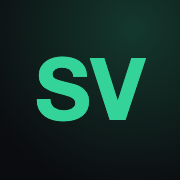
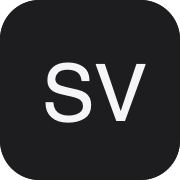
Use an Apple-style palette: neutral greys and one blue accent
The green, violet, sky, amber and rose domain hues are retired. Links,
buttons and the focus ring use #0066cc on light and #2997ff on dark;
primary buttons are #0071e3 with white text. Numbers, eyebrows, metric
lines and bullets move to the ink and grey neutrals. The data-hue
attributes stay in the markup but all resolve to the same blue.

In-review PRs get a neutral pill and merged ones the blue. RAG results
that got worse use the system red, and code highlighting drops violet.
The favicon, apple-touch icon and social card are redrawn to match; the
card also carries the current headline.

diff --git a/styles.css b/styles.css
@@ -4,8 +4,9 @@
    Theme: light and dark. Follows the system setting; the nav toggle
    pins a choice in localStorage as <html data-theme>. Light uses white
    and #f5f5f7 canvases; dark uses black and #1c1c1e. The measured
-   numbers always sit on a dark band. One accent per page (the domain
-   hue on <body data-hue>), deep on light, bright on dark.
+   numbers always sit on a dark band. Colour is Apple's: neutral greys
+   and one blue accent, #0066cc on light and #2997ff on dark. The
+   data-hue attributes in the markup now all resolve to that blue.
 
    Type: Geist, large display sizes with tight tracking, 17px body.
    Radius: tiles 28px, small surfaces 18px, pills 999px, code 6px.
@@ -42,19 +43,24 @@
   --muted: #6e6e73;
   --muted-rgb: 110, 110, 115;
 
-  /* domain hues: deep for light canvases (AA on #fff and #f5f5f7),
-     bright for the black bands. --accent is re-pointed per scope. */
-  --hue-agent: #047857;    --hue-agent-rgb: 4, 120, 87;
-  --hue-vision: #0369a1;   --hue-vision-rgb: 3, 105, 161;
-  --hue-llm: #6d28d9;      --hue-llm-rgb: 109, 40, 217;
-  --hue-product: #b45309;  --hue-product-rgb: 180, 83, 9;
-  --hue-tools: #be123c;    --hue-tools-rgb: 190, 18, 60;
+  /* one accent. The per-domain hue tokens are kept so [data-hue]
+     markup keeps working, but every one of them is the same blue. */
+  --blue: #0066cc;       --blue-rgb: 0, 102, 204;
+  --blue-d: #2997ff;     --blue-d-rgb: 41, 151, 255;
+  --btn: #0071e3;
+  --red: #d70015;        --red-d: #ff453a;
 
-  --hue-agent-d: #34d399;   --hue-agent-d-rgb: 52, 211, 153;
-  --hue-vision-d: #38bdf8;  --hue-vision-d-rgb: 56, 189, 248;
-  --hue-llm-d: #a78bfa;     --hue-llm-d-rgb: 167, 139, 250;
-  --hue-product-d: #fbbf24; --hue-product-d-rgb: 251, 191, 36;
-  --hue-tools-d: #fb7185;   --hue-tools-d-rgb: 251, 113, 133;
+  --hue-agent: var(--blue);    --hue-agent-rgb: var(--blue-rgb);
+  --hue-vision: var(--blue);   --hue-vision-rgb: var(--blue-rgb);
+  --hue-llm: var(--blue);      --hue-llm-rgb: var(--blue-rgb);
+  --hue-product: var(--blue);  --hue-product-rgb: var(--blue-rgb);
+  --hue-tools: var(--blue);    --hue-tools-rgb: var(--blue-rgb);
+
+  --hue-agent-d: var(--blue-d);   --hue-agent-d-rgb: var(--blue-d-rgb);
+  --hue-vision-d: var(--blue-d);  --hue-vision-d-rgb: var(--blue-d-rgb);
+  --hue-llm-d: var(--blue-d);     --hue-llm-d-rgb: var(--blue-d-rgb);
+  --hue-product-d: var(--blue-d); --hue-product-d-rgb: var(--blue-d-rgb);
+  --hue-tools-d: var(--blue-d);   --hue-tools-d-rgb: var(--blue-d-rgb);
 
   --accent: var(--hue-agent);
   --accent-rgb: var(--hue-agent-rgb);
@@ -99,7 +105,7 @@
   --hue-llm: var(--hue-llm-d);         --hue-llm-rgb: var(--hue-llm-d-rgb);
   --hue-product: var(--hue-product-d); --hue-product-rgb: var(--hue-product-d-rgb);
   --hue-tools: var(--hue-tools-d);     --hue-tools-rgb: var(--hue-tools-d-rgb);
-  --accent-ink: #000000;
+  --red: var(--red-d);
 }
 @media (prefers-color-scheme: dark) {
   :root:not([data-theme="light"]) {
@@ -120,7 +126,7 @@
     --hue-llm: var(--hue-llm-d);         --hue-llm-rgb: var(--hue-llm-d-rgb);
     --hue-product: var(--hue-product-d); --hue-product-rgb: var(--hue-product-d-rgb);
     --hue-tools: var(--hue-tools-d);     --hue-tools-rgb: var(--hue-tools-d-rgb);
-    --accent-ink: #000000;
+    --red: var(--red-d);
   }
 }
 
@@ -365,7 +371,7 @@ h2 {
 .case-context {
   margin-bottom: 1rem;
   order: -1;
-  color: var(--accent);
+  color: var(--muted);
   font-size: 1rem;
   font-weight: 600;
   letter-spacing: -0.01em;
@@ -394,8 +400,8 @@ h2 {
 .btn:active { transform: scale(0.97); }
 
 .btn-primary {
-  background: var(--accent);
-  color: var(--accent-ink);
+  background: var(--btn);
+  color: #ffffff;
 }
 
 .btn-ghost {
@@ -533,7 +539,7 @@ a.card::after {
 }
 
 .card .metric {
-  color: var(--accent);
+  color: var(--text);
   font-size: 0.95rem;
   font-weight: 600;
   letter-spacing: -0.01em;
@@ -561,7 +567,7 @@ a.card::after {
   position: absolute;
   top: 2rem;
   right: 2rem;
-  color: var(--accent);
+  color: var(--muted);
   transition: transform 250ms var(--ease);
 }
 
@@ -586,7 +592,7 @@ a.card::after {
 .card-context,
 .card p.card-context {
   margin-top: 0.6rem;
-  color: var(--accent);
+  color: var(--text);
   font-size: 1rem;
   font-weight: 600;
   letter-spacing: -0.01em;
@@ -621,7 +627,7 @@ a.card::after {
   font-weight: 600;
   letter-spacing: -0.045em;
   line-height: 1;
-  color: var(--accent);
+  color: var(--text);
   font-variant-numeric: tabular-nums;
 }
 .stat-label { color: var(--muted); font-size: 0.95rem; line-height: 1.4; }
@@ -727,7 +733,7 @@ article.card { cursor: default; }
   width: 5px;
   height: 5px;
   border-radius: 50%;
-  background: var(--accent);
+  background: var(--muted);
 }
 
 .case-body .tags li { background: var(--bg-2); }
@@ -923,8 +929,8 @@ section.next { padding-block: 5rem var(--section); }
 }
 
 .oss-pr {
-  --accent: var(--hue-product);
-  --accent-rgb: var(--hue-product-rgb);
+  --accent: var(--muted);
+  --accent-rgb: var(--muted-rgb);
   position: relative;
   display: grid;
   grid-template-columns: minmax(0, 1fr) auto;
@@ -1031,8 +1037,8 @@ section.next { padding-block: 5rem var(--section); }
   .theme-toggle:hover { color: var(--text); }
   .theme-toggle:hover { background: var(--bg-2); }
 
-  .btn-primary:hover { background: color-mix(in srgb, var(--accent) 86%, #000); }
-  .btn-ghost:hover { background: var(--accent); color: var(--accent-ink); }
+  .btn-primary:hover { background: #0077ed; }
+  .btn-ghost:hover { background: var(--btn); color: #ffffff; box-shadow: inset 0 0 0 1px var(--btn); }
   .more-link:hover,
   .work-more a:hover,
   .page-header .lede a:hover,

diff --git a/RAG/rag.css b/RAG/rag.css
@@ -29,7 +29,7 @@
 .rag-prose blockquote a { color: var(--accent); text-decoration: none; }
 .rag-prose p a:hover, .rag-prose li a:hover, .rag-prose td a:hover,
 .rag-prose blockquote a:hover { text-decoration: underline; text-underline-offset: 3px; }
-.rag-prose .btn-primary { color: var(--accent-ink); }
+.rag-prose .btn-primary { color: #ffffff; }
 .rag-prose strong { color: var(--text); }
 .rag-prose blockquote { margin: 1.6rem 0; padding: 1.1rem 1.4rem; border-left: 3px solid var(--accent);
   background: var(--bg-2); border-radius: 0 var(--r-surface) var(--r-surface) 0; color: var(--muted); }
@@ -56,7 +56,7 @@
 .rag-results td:last-child { text-align: right; font-family: var(--mono); font-size: .84rem;
   white-space: nowrap; }
 .rag-results em { color: var(--muted); font-style: normal; font-size: .82rem; }
-.rag-bad td:last-child { color: var(--hue-tools); }
+.rag-bad td:last-child { color: var(--red); }
 .rag-good td:last-child { color: var(--accent); }
 .rag-good td:first-child { font-weight: 500; }
 
@@ -70,7 +70,7 @@
 .rag-scores li:last-child { border-bottom: none; }
 .rag-scores span { color: var(--text); }
 .rag-scores em { font-family: var(--mono); font-size: .8rem; font-style: normal; white-space: nowrap; }
-.rag-lost em { color: var(--hue-tools); }
+.rag-lost em { color: var(--red); }
 .rag-flat { margin-bottom: 1.6rem; }
 .rag-flat em { color: var(--muted); }
 .rag-won em { color: var(--accent); }
@@ -88,12 +88,12 @@
 .rag-row.is-wip .rag-row-t::after { content: " roadmap"; font-family: var(--mono);
   font-size: .62rem; text-transform: uppercase; letter-spacing: .08em; opacity: .55; }
 
-.codehilite .k, .codehilite .kn { color: var(--hue-llm); }
+.codehilite .k, .codehilite .kn { color: var(--text); font-weight: 600; }
 .codehilite .nc, .codehilite .nn { color: var(--accent); }
-.codehilite .s, .codehilite .s1, .codehilite .s2 { color: var(--accent); }
+.codehilite .s, .codehilite .s1, .codehilite .s2 { color: var(--red); }
 .codehilite .c, .codehilite .c1 { color: var(--muted); font-style: italic; }
-.codehilite .nf { color: var(--hue-vision); }
-.codehilite .mi, .codehilite .mf { color: var(--hue-product); }
+.codehilite .nf { color: var(--accent); }
+.codehilite .mi, .codehilite .mf { color: var(--accent); }
 
 @media (max-width: 720px) {
   .rag-split, .rag-rows { grid-template-columns: 1fr; gap: 1.6rem 0; }

diff --git a/daykit-privacy/index.html b/daykit-privacy/index.html
@@ -6,8 +6,8 @@
 <title>Day Kit: Privacy Policy and Terms</title>
 <meta name="description" content="Privacy policy and terms of use for Day Kit, the on-device AI build of Daykit for Android.">
 <style>
-  :root { --fg: #1d1d1f; --muted: #6e6e73; --accent: #047857; --bg: #ffffff; --line: #d2d2d7; color-scheme: light dark; }
-  @media (prefers-color-scheme: dark) { :root { --fg: #f5f5f7; --muted: #a1a1a6; --accent: #34d399; --bg: #000000; --line: #424245; } }
+  :root { --fg: #1d1d1f; --muted: #6e6e73; --accent: #0066cc; --bg: #ffffff; --line: #d2d2d7; color-scheme: light dark; }
+  @media (prefers-color-scheme: dark) { :root { --fg: #f5f5f7; --muted: #a1a1a6; --accent: #2997ff; --bg: #000000; --line: #424245; } }
   body { margin: 0; background: var(--bg); color: var(--fg); font: 17px/1.55 system-ui, -apple-system, "Segoe UI", Roboto, sans-serif; letter-spacing: -0.005em; -webkit-font-smoothing: antialiased; }
   main { max-width: 720px; margin: 0 auto; padding: 64px 16px 96px; }
   h1 { font-size: clamp(2rem, 6vw, 2.75rem); font-weight: 600; line-height: 1.08; letter-spacing: -0.035em; margin: 0 0 12px; }

diff --git a/RAG/level-15/index.html b/RAG/level-15/index.html
@@ -17,8 +17,8 @@
   <link rel="preload" href="/assets/fonts/geist-var.woff2" as="font" type="font/woff2" crossorigin>
   <link rel="preload" href="/assets/fonts/geist-mono-var.woff2" as="font" type="font/woff2" crossorigin>
   <script>try{var t=localStorage.getItem("theme");if(t==="light"||t==="dark")document.documentElement.dataset.theme=t}catch(e){}</script>
-  <link rel="stylesheet" href="/styles.css?v=20261104b">
-  <link rel="stylesheet" href="/RAG/rag.css?v=20261104b">
+  <link rel="stylesheet" href="/styles.css?v=20261104c">
+  <link rel="stylesheet" href="/RAG/rag.css?v=20261104c">
 </head>
 <body data-hue="agent">
   <a class="skip" href="#main">Skip to content</a>
@@ -126,6 +126,6 @@ for a vector database one to two orders of magnitude before they need one.</p>
     </div>
   </footer>
 
-  <script src="/script.js?v=20261104b" defer></script>
+  <script src="/script.js?v=20261104c" defer></script>
 </body>
 </html>

diff --git a/RAG/level-01/index.html b/RAG/level-01/index.html
@@ -17,8 +17,8 @@
   <link rel="preload" href="/assets/fonts/geist-var.woff2" as="font" type="font/woff2" crossorigin>
   <link rel="preload" href="/assets/fonts/geist-mono-var.woff2" as="font" type="font/woff2" crossorigin>
   <script>try{var t=localStorage.getItem("theme");if(t==="light"||t==="dark")document.documentElement.dataset.theme=t}catch(e){}</script>
-  <link rel="stylesheet" href="/styles.css?v=20261104b">
-  <link rel="stylesheet" href="/RAG/rag.css?v=20261104b">
+  <link rel="stylesheet" href="/styles.css?v=20261104c">
+  <link rel="stylesheet" href="/RAG/rag.css?v=20261104c">
 </head>
 <body data-hue="agent">
   <a class="skip" href="#main">Skip to content</a>
@@ -134,6 +134,6 @@ succeed. Stage 3 moves to a benchmark you cannot tune against.</p>
     </div>
   </footer>
 
-  <script src="/script.js?v=20261104b" defer></script>
+  <script src="/script.js?v=20261104c" defer></script>
 </body>
 </html>

diff --git a/RAG/level-10/index.html b/RAG/level-10/index.html
@@ -17,8 +17,8 @@
   <link rel="preload" href="/assets/fonts/geist-var.woff2" as="font" type="font/woff2" crossorigin>
   <link rel="preload" href="/assets/fonts/geist-mono-var.woff2" as="font" type="font/woff2" crossorigin>
   <script>try{var t=localStorage.getItem("theme");if(t==="light"||t==="dark")document.documentElement.dataset.theme=t}catch(e){}</script>
-  <link rel="stylesheet" href="/styles.css?v=20261104b">
-  <link rel="stylesheet" href="/RAG/rag.css?v=20261104b">
+  <link rel="stylesheet" href="/styles.css?v=20261104c">
+  <link rel="stylesheet" href="/RAG/rag.css?v=20261104c">
 </head>
 <body data-hue="agent">
   <a class="skip" href="#main">Skip to content</a>
@@ -176,6 +176,6 @@ makes the approach practical, and it is not implemented here.</p>
     </div>
   </footer>
 
-  <script src="/script.js?v=20261104b" defer></script>
+  <script src="/script.js?v=20261104c" defer></script>
 </body>
 </html>

diff --git a/RAG/level-13/index.html b/RAG/level-13/index.html
@@ -17,8 +17,8 @@
   <link rel="preload" href="/assets/fonts/geist-var.woff2" as="font" type="font/woff2" crossorigin>
   <link rel="preload" href="/assets/fonts/geist-mono-var.woff2" as="font" type="font/woff2" crossorigin>
   <script>try{var t=localStorage.getItem("theme");if(t==="light"||t==="dark")document.documentElement.dataset.theme=t}catch(e){}</script>
-  <link rel="stylesheet" href="/styles.css?v=20261104b">
-  <link rel="stylesheet" href="/RAG/rag.css?v=20261104b">
+  <link rel="stylesheet" href="/styles.css?v=20261104c">
+  <link rel="stylesheet" href="/RAG/rag.css?v=20261104c">
 </head>
 <body data-hue="agent">
   <a class="skip" href="#main">Skip to content</a>
@@ -100,6 +100,6 @@ anyone measured whether the questions are actually multi-hop.</p>
     </div>
   </footer>
 
-  <script src="/script.js?v=20261104b" defer></script>
+  <script src="/script.js?v=20261104c" defer></script>
 </body>
 </html>

diff --git a/RAG/level-07/index.html b/RAG/level-07/index.html
@@ -17,8 +17,8 @@
   <link rel="preload" href="/assets/fonts/geist-var.woff2" as="font" type="font/woff2" crossorigin>
   <link rel="preload" href="/assets/fonts/geist-mono-var.woff2" as="font" type="font/woff2" crossorigin>
   <script>try{var t=localStorage.getItem("theme");if(t==="light"||t==="dark")document.documentElement.dataset.theme=t}catch(e){}</script>
-  <link rel="stylesheet" href="/styles.css?v=20261104b">
-  <link rel="stylesheet" href="/RAG/rag.css?v=20261104b">
+  <link rel="stylesheet" href="/styles.css?v=20261104c">
+  <link rel="stylesheet" href="/RAG/rag.css?v=20261104c">
 </head>
 <body data-hue="agent">
   <a class="skip" href="#main">Skip to content</a>
@@ -224,6 +224,6 @@ helps, depth is a latency dial you should set deliberately.</p>
     </div>
   </footer>
 
-  <script src="/script.js?v=20261104b" defer></script>
+  <script src="/script.js?v=20261104c" defer></script>
 </body>
 </html>

diff --git a/RAG/flow/index.html b/RAG/flow/index.html
@@ -17,8 +17,8 @@
   <link rel="preload" href="/assets/fonts/geist-var.woff2" as="font" type="font/woff2" crossorigin>
   <link rel="preload" href="/assets/fonts/geist-mono-var.woff2" as="font" type="font/woff2" crossorigin>
   <script>try{var t=localStorage.getItem("theme");if(t==="light"||t==="dark")document.documentElement.dataset.theme=t}catch(e){}</script>
-  <link rel="stylesheet" href="/styles.css?v=20261104b">
-  <link rel="stylesheet" href="/RAG/rag.css?v=20261104b">
+  <link rel="stylesheet" href="/styles.css?v=20261104c">
+  <link rel="stylesheet" href="/RAG/rag.css?v=20261104c">
 </head>
 <body data-hue="agent">
   <a class="skip" href="#main">Skip to content</a>
@@ -401,6 +401,6 @@ hypotheses I got wrong before landing the reranking rule.</p>
     </div>
   </footer>
 
-  <script src="/script.js?v=20261104b" defer></script>
+  <script src="/script.js?v=20261104c" defer></script>
 </body>
 </html>

diff --git a/RAG/level-03/index.html b/RAG/level-03/index.html
@@ -17,8 +17,8 @@
   <link rel="preload" href="/assets/fonts/geist-var.woff2" as="font" type="font/woff2" crossorigin>
   <link rel="preload" href="/assets/fonts/geist-mono-var.woff2" as="font" type="font/woff2" crossorigin>
   <script>try{var t=localStorage.getItem("theme");if(t==="light"||t==="dark")document.documentElement.dataset.theme=t}catch(e){}</script>
-  <link rel="stylesheet" href="/styles.css?v=20261104b">
-  <link rel="stylesheet" href="/RAG/rag.css?v=20261104b">
+  <link rel="stylesheet" href="/styles.css?v=20261104c">
+  <link rel="stylesheet" href="/RAG/rag.css?v=20261104c">
 </head>
 <body data-hue="agent">
   <a class="skip" href="#main">Skip to content</a>
@@ -115,6 +115,6 @@ and what Stage 8's HyDE will attack from the other side.</p>
     </div>
   </footer>
 
-  <script src="/script.js?v=20261104b" defer></script>
+  <script src="/script.js?v=20261104c" defer></script>
 </body>
 </html>

diff --git a/RAG/systems/index.html b/RAG/systems/index.html
@@ -17,8 +17,8 @@
   <link rel="preload" href="/assets/fonts/geist-var.woff2" as="font" type="font/woff2" crossorigin>
   <link rel="preload" href="/assets/fonts/geist-mono-var.woff2" as="font" type="font/woff2" crossorigin>
   <script>try{var t=localStorage.getItem("theme");if(t==="light"||t==="dark")document.documentElement.dataset.theme=t}catch(e){}</script>
-  <link rel="stylesheet" href="/styles.css?v=20261104b">
-  <link rel="stylesheet" href="/RAG/rag.css?v=20261104b">
+  <link rel="stylesheet" href="/styles.css?v=20261104c">
+  <link rel="stylesheet" href="/RAG/rag.css?v=20261104c">
 </head>
 <body data-hue="agent">
   <a class="skip" href="#main">Skip to content</a>
@@ -339,6 +339,6 @@ with an agentic pipeline that underperforms BM25.</p>
     </div>
   </footer>
 
-  <script src="/script.js?v=20261104b" defer></script>
+  <script src="/script.js?v=20261104c" defer></script>
 </body>
 </html>

diff --git a/RAG/notes/index.html b/RAG/notes/index.html
@@ -17,8 +17,8 @@
   <link rel="preload" href="/assets/fonts/geist-var.woff2" as="font" type="font/woff2" crossorigin>
   <link rel="preload" href="/assets/fonts/geist-mono-var.woff2" as="font" type="font/woff2" crossorigin>
   <script>try{var t=localStorage.getItem("theme");if(t==="light"||t==="dark")document.documentElement.dataset.theme=t}catch(e){}</script>
-  <link rel="stylesheet" href="/styles.css?v=20261104b">
-  <link rel="stylesheet" href="/RAG/rag.css?v=20261104b">
+  <link rel="stylesheet" href="/styles.css?v=20261104c">
+  <link rel="stylesheet" href="/RAG/rag.css?v=20261104c">
 </head>
 <body data-hue="agent">
   <a class="skip" href="#main">Skip to content</a>
@@ -213,6 +213,6 @@ test before writing the headline, not after.</p>
     </div>
   </footer>
 
-  <script src="/script.js?v=20261104b" defer></script>
+  <script src="/script.js?v=20261104c" defer></script>
 </body>
 </html>
